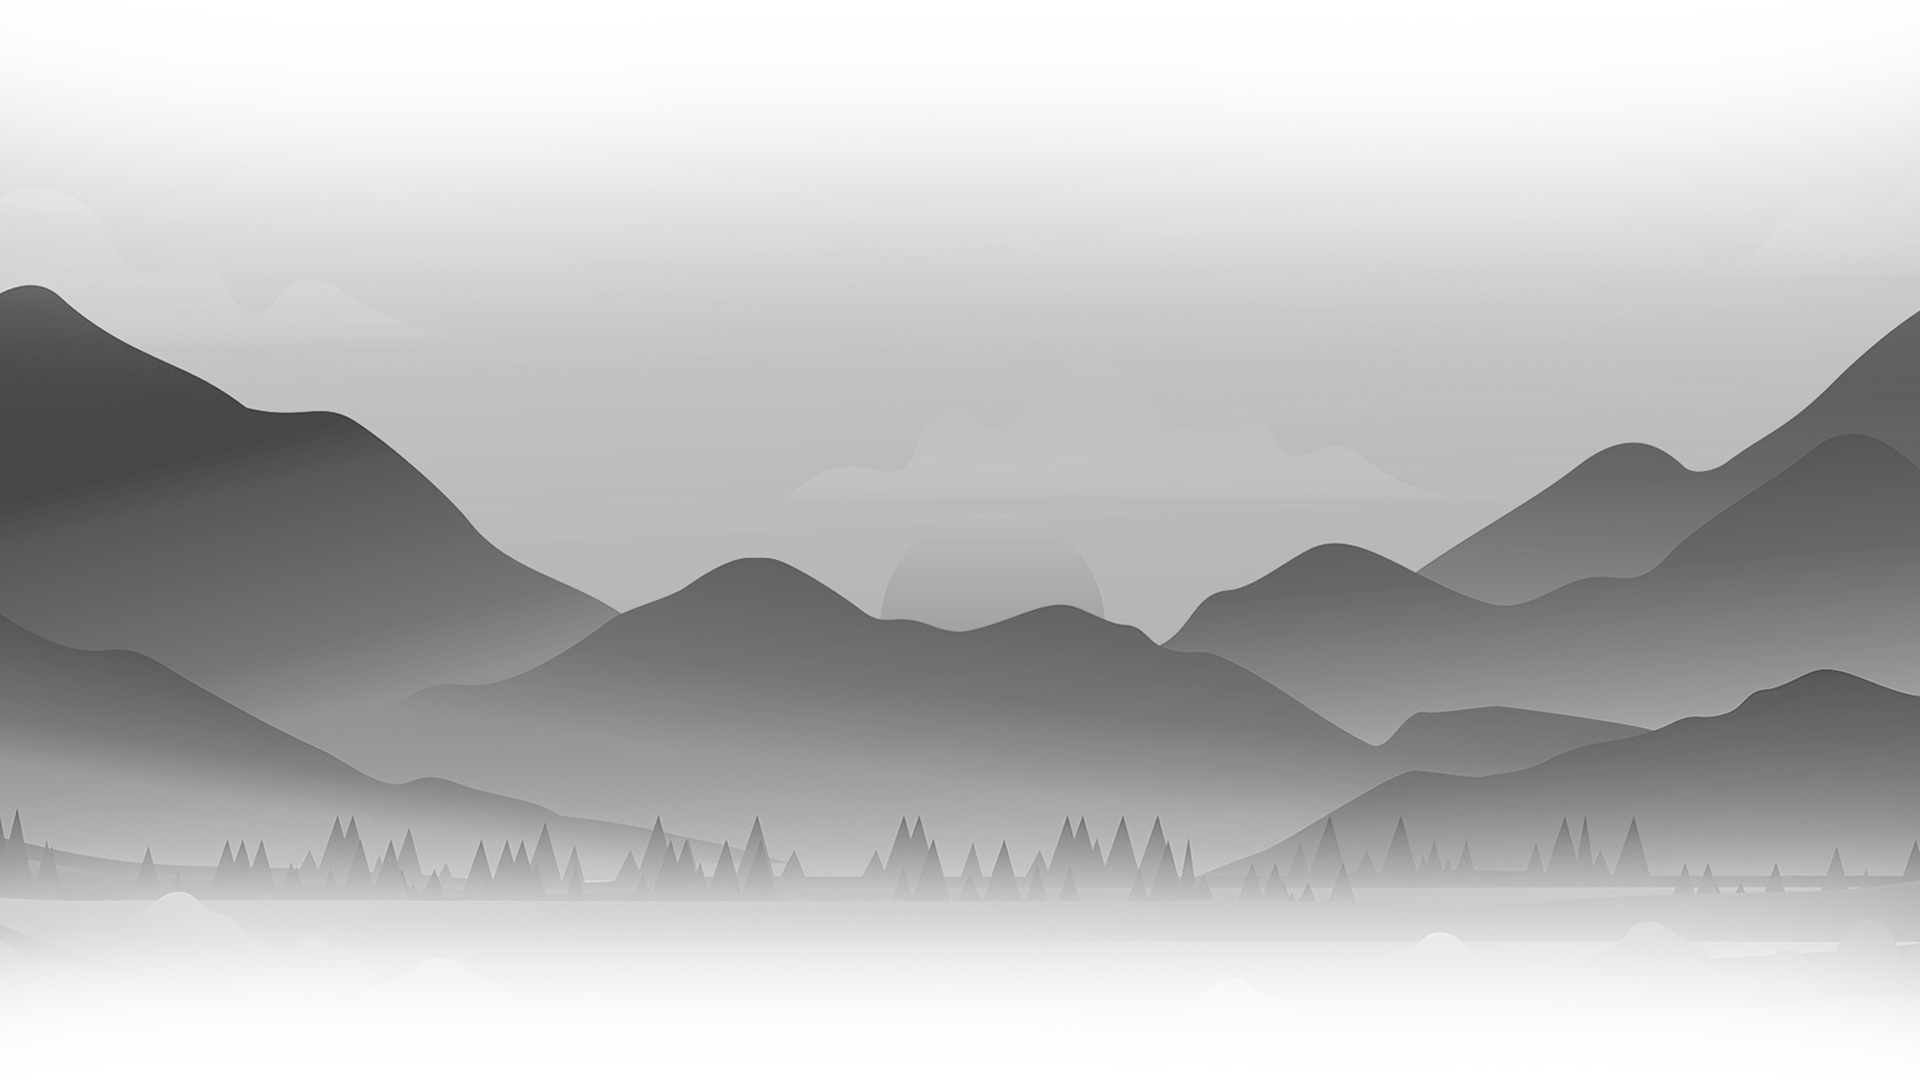
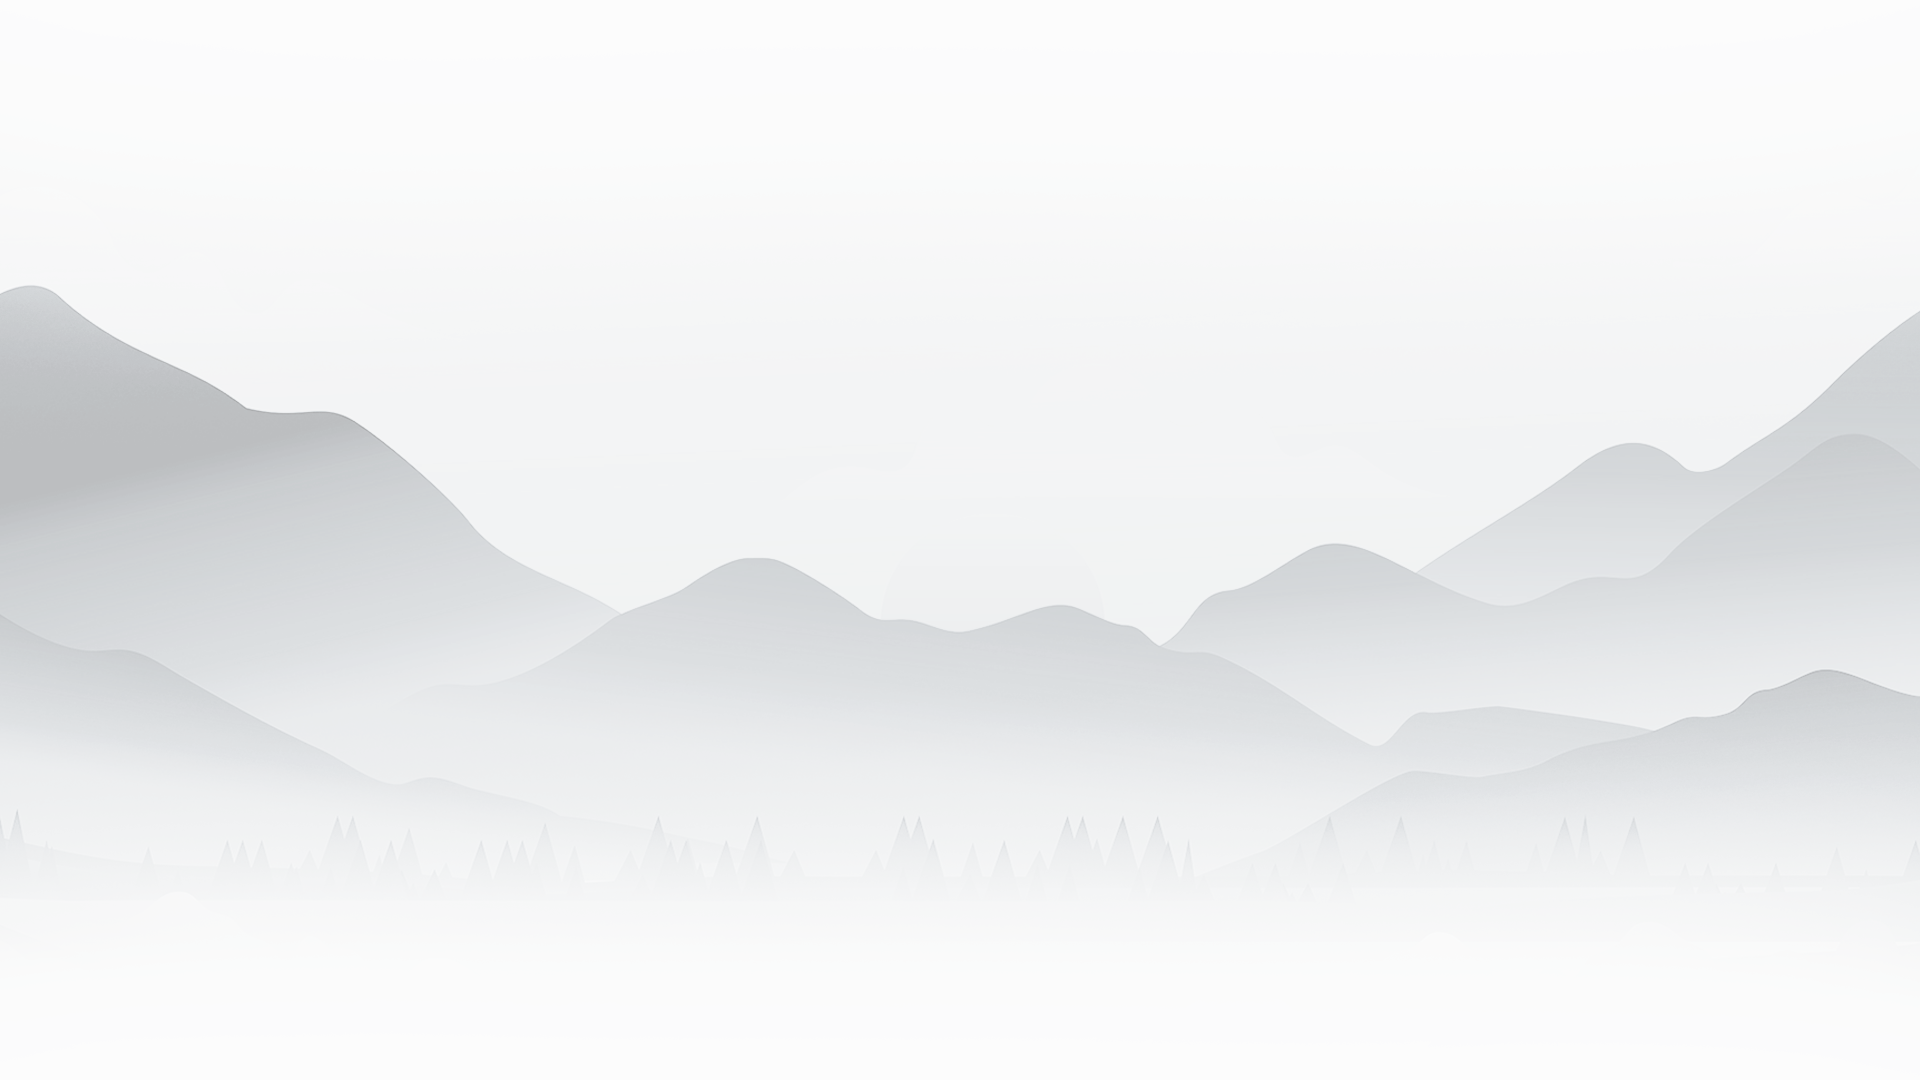
VM Holiday new Commit

diff --git a/index.html b/index.html
@@ -143,7 +143,7 @@
 	    </div>
     </section>
 
-    <section  class="ftco-section services-section bg-top"  style="background-image: url(images/bg_6.png);">
+    <section  class="ftco-section bg-top"  style="background-image: url(images/bg_6.png);">
 		<div class="container">
 		  <div class="row d-flex">
 			<div class="col-md-12 order-md-last heading-section pl-md-5 ftco-animate">
@@ -210,7 +210,7 @@
 		</div>
 	  </section>
   
-	  <section class="ftco-counter img" id="section-counter" style="background-image: url(images/bg_5.png);">
+	  <section class="ftco-counter img" id="section-counter">
 		  <div class="container">
 			  <div class="row d-flex">
 				  <div class="col-md-6 d-flex">

diff --git a/about.html b/about.html
@@ -61,7 +61,7 @@
       </div>
     </section>
 
-    <section class="ftco-section services-section bg-center"  style="background-image: url(images/bg_3.jpg);">
+    <section class="ftco-section services-section bg-top"  style="background-image: url(images/bg_6.png);">
       <div class="container">
         <div class="row d-flex">
           <div class="col-md-12 order-md-last heading-section pl-md-5 ftco-animate">
